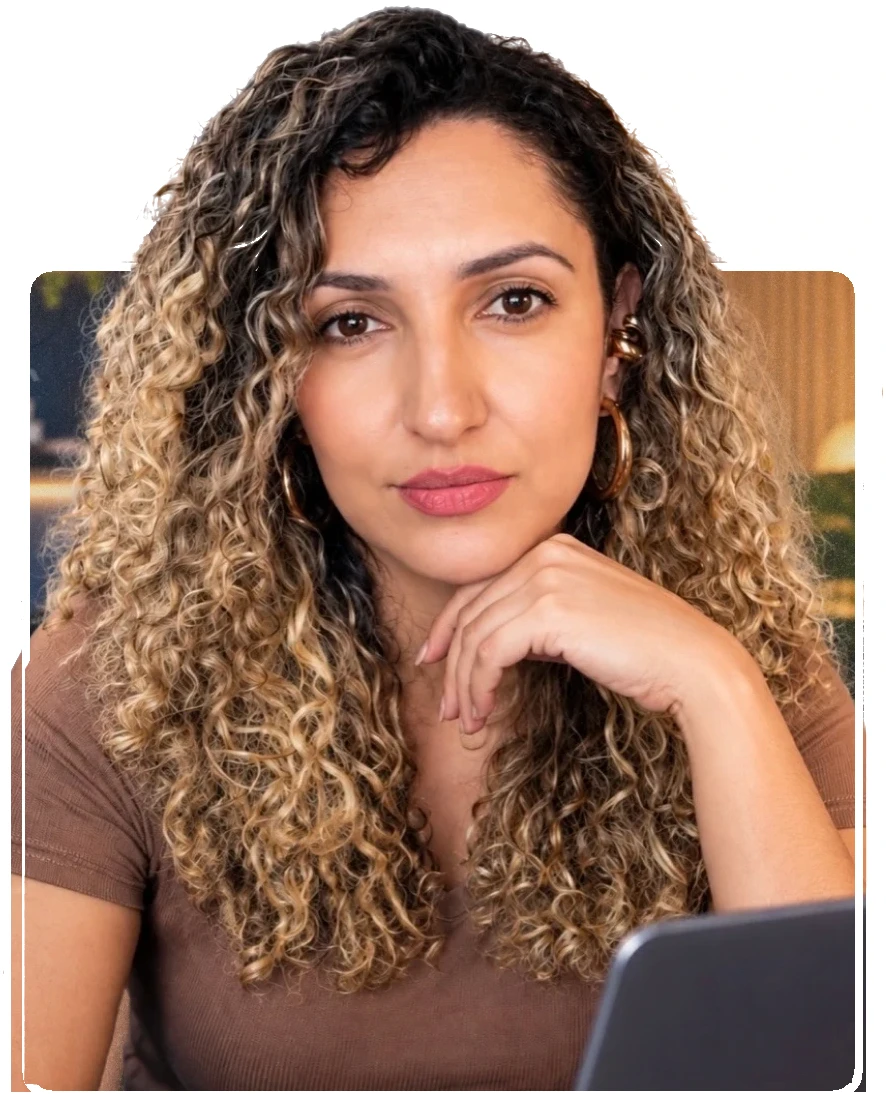
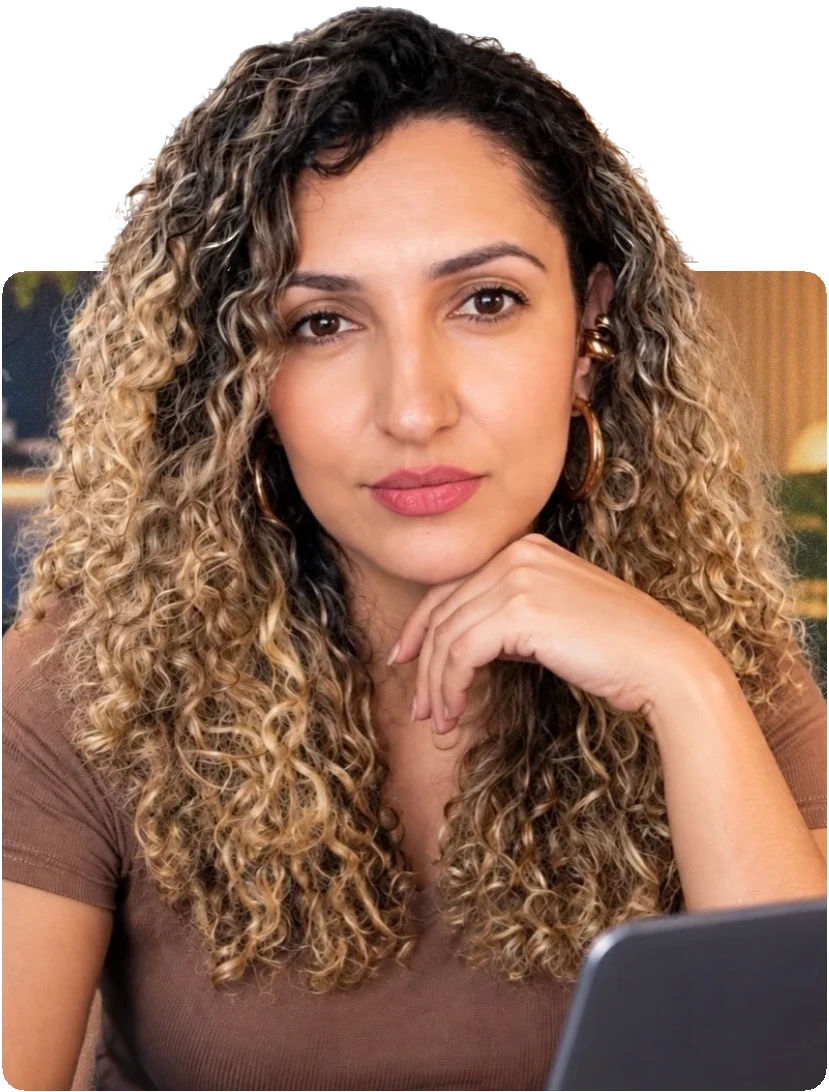
Acabamento da foto e botao Fale comigo no Sobre mim

diff --git a/index.html b/index.html
@@ -221,6 +221,7 @@
   .sobre-grade { display: grid; grid-template-columns: .85fr 1.15fr; gap: clamp(32px, 6vw, 80px); align-items: center; }
   #sobre.secao { padding-block: clamp(32px, 4vw, 56px); }
   .sobre-foto img { display: block; width: 100%; height: auto; mix-blend-mode: multiply; }
+  .sobre-botao { margin-top: 28px; }
   .sobre-texto p { margin-top: 18px; font-size: 1.08rem; color: var(--suave); }
   .promessas { display: grid; gap: 12px; margin-top: 28px; }
   .promessas li {
@@ -629,13 +630,14 @@
       <div class="sobre-foto" data-revelar>
         <!-- FOTO DO SOBRE MIM (foto real): o arquivo foto-sobre.webp fica na mesma pasta do index.html.
              Para trocar, envie outra foto com o mesmo nome ou mude o src abaixo. -->
-        <img src="foto-sobre.webp?v=3" alt="Ana Paula Mendes com a mão no queixo, de blusa marrom, com a cabeça saindo da foto em efeito 3D" width="886" height="1094" loading="lazy">
+        <img src="foto-sobre.webp?v=4" alt="Ana Paula Mendes com a mão no queixo, de blusa marrom, com a cabeça saindo da foto em efeito 3D" width="829" height="1092" loading="lazy">
       </div>
       <div class="sobre-texto" data-revelar>
         <h2 class="titulo-secao" id="tituloSobre"><span data-en="About">Sobre</span> <span class="destaque" data-en="me">mim</span></h2>
         <p data-en="Hi, I'm Ana Paula. I'm 38, a UGC Creator and UGC Manager based in Joinville, Brazil. I'm a mom and I've been living with induced early menopause for 3 years.">Oie, me chamo Ana Paula, tenho 38 anos, sou UGC Creator e UGC Manager e moro em Joinville/SC. Sou mãe e vivo a menopausa precoce induzida há 3 anos.</p>
         <p data-en="I create content that blends real connection and strategy to build trust and sell. With a sharp eye for aesthetics, I turn products into objects of desire.">Crio conteúdo que une conexão real e estratégia para gerar confiança e vender. Com senso estético apurado, transformo produto em desejo de consumo.</p>
         <p data-en="My content speaks to women 35+ who shop consciously and want to truly see themselves in ads.">Meu conteúdo conversa com a mulher 35+, que compra com consciência e quer se ver de verdade nos anúncios.</p>
+        <a class="botao botao--verde sobre-botao" href="#contato" data-en="Talk to me">Fale comigo</a>
       </div>
     </div>
   </section>
